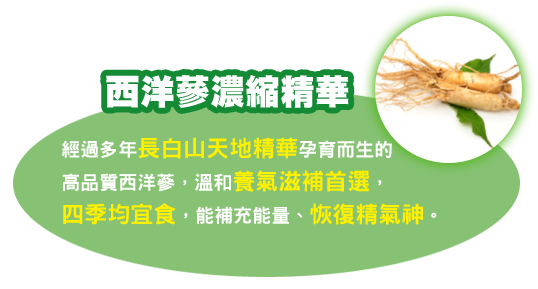
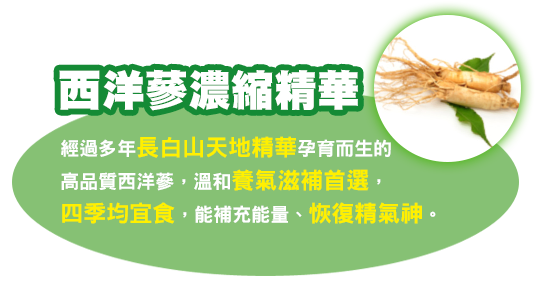
sdas

diff --git a/css/style.css b/css/style.css
@@ -1036,7 +1036,7 @@ body{
     position: relative;
 }
 .mb_people{
-    width: 25%;
+    width: 30%;
     position: relative;
     margin-top: 100px;
     left: 0;
@@ -1522,9 +1522,9 @@ body{
     }
     .slip_light {
         width: 33%;
-        height: 54.8%;
+        height: 52.8%;
         position: absolute;
-        top: 28.9%;
+        top: 25.5%;
         right: 35.8%;
     }
     .slip_light:before {
@@ -1558,7 +1558,7 @@ body{
     .mb_item{
         width: 60%;
         position: relative;
-        right: 60px;
+        right: 150px;
         transition: all .7s;
     }
     .modalBlock .close {
@@ -1581,7 +1581,7 @@ body{
         padding-top: 5.25%;
     }
     .mb_people{
-        width: 24%;
+        width: 30%;
         margin-top: 50px;
     }
 }
@@ -1618,27 +1618,21 @@ body{
         /* transform: scaleY(1); */
     }
     .mb_people{
-        width: 24%;
+        width: 30%;
         margin-top: 50px;
     }
     .mb_item {
         width: 65%;
         position: relative;
-        /* right: 120px; */
-        right: 45px;
+        right: 100px;
         transition: all .7s;
     }
     .slip_light {
         width: 33%;
         height: 54.8%;
         position: absolute;
-        top: 28.9%;
-        right: 36.8%;
-        /* width: 33%;
-        height: 49.8%;
-        position: absolute;
         top: 25.9%;
-        right: 36.8%; */
+        right: 36.8%;
     }
     .slip_light:before {
         content: "";
@@ -1692,13 +1686,8 @@ body{
         width: 33%;
         height: 54.8%;
         position: absolute;
-        top: 28.9%;
-        right: 36.8%;
-        /* width: 33%;
-        height: 49.8%;
-        position: absolute;
-        top: 24.9%;
-        right: 36.8%; */
+        top: 25.9%;
+        right: 37%;
     }
     .mb_1123{
         width: 30%;
